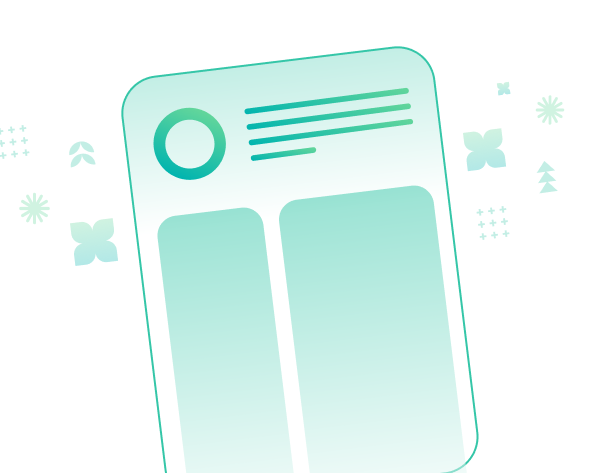
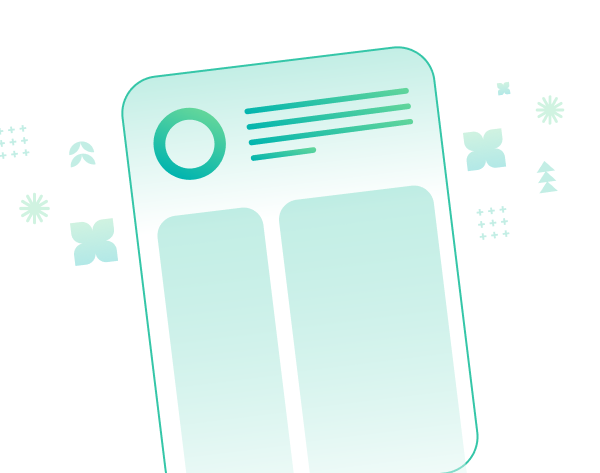
style: update faqs sections

Changed region(s): [[0.24, 0.3848, 0.75, 0.6216]]

diff --git a/resources/views/components/faqs.blade.php b/resources/views/components/faqs.blade.php
@@ -1,11 +1,11 @@
-<section class="max-w-6xl mx-auto p-10 sm:w-full sm:p-4">
+<section class="max-w-6xl mx-auto p-10 sm:w-full sm:p-4 mt-0 sm:mt-4">
     <div class="p-10 sm:p-2">
 
         <div class="space-y-2">
-            <h1 class="text-3xl font-bold text-center text-prim sm:text-2xl">Frequently <span
-                    class="text-acc">Asked</span> Questions</h1>
+            <h1 class="text-3xl font-bold text-center text-prim sm:text-xl">Frequently <span class="text-acc">Asked</span>
+                Questions</h1>
             <p class="text-gray-500 text-sm text-center sm:text-xs">Beberapa pertanyaan yang sering diajukan oleh
-                pengguna mengenai platform anaksehat</p>
+                pengguna mengenai platform Nutrizie</p>
         </div>
 
         <div class="mt-6">
@@ -17,7 +17,7 @@
                         class=" flex items-center justify-between w-full py-5 font-medium rtl:text-right text-gray-500 border-b border-gray-200 dark:border-gray-700 dark:text-gray-400 gap-3"
                         data-accordion-target="#accordion-flush-body-1" aria-expanded="true"
                         aria-controls="accordion-flush-body-1">
-                        <span class="text-sm">Apa itu Anaksehat ?</span>
+                        <span class="text-sm sm:text-xs">Apa itu Nutrizie ?</span>
                         <svg data-accordion-icon class="w-3 h-3 rotate-180 shrink-0" aria-hidden="true"
                             xmlns="http://www.w3.org/2000/svg" fill="none" viewBox="0 0 10 6">
                             <path stroke="currentColor" stroke-linecap="round" stroke-linejoin="round" stroke-width="2"
@@ -27,7 +27,8 @@
                 </h2>
                 <div id="accordion-flush-body-1" class="hidden" aria-labelledby="accordion-flush-heading-1">
                     <div class="py-5 border-b border-gray-200 dark:border-gray-700">
-                        <p class="mb-2 text-justify text-gray-500 text-sm dark:text-gray-400">anaksehat merupakan
+                        <p class="mb-2 text-justify text-gray-500 text-sm sm:text-xs dark:text-gray-400">Nutrizie
+                            merupakan
                             platform yang menyediakan informasi gizi balita, pola makan sehat, serta cara mengatasi
                             tantangan asupan untuk balita. Platform ini juga dilengkapi sistem Cek status gizi otomatis.
                         </p>
@@ -39,7 +40,7 @@
                         class=" flex items-center justify-between w-full py-5 font-medium rtl:text-right text-gray-500 border-b border-gray-200 dark:border-gray-700 dark:text-gray-400 gap-3"
                         data-accordion-target="#accordion-flush-body-2" aria-expanded="false"
                         aria-controls="accordion-flush-body-2">
-                        <span class="text-sm text-left">Apa tujuan utama dari website Anaksehat ?</span>
+                        <span class="text-sm sm:text-xs text-left">Apa tujuan utama dari website Nutrizie ?</span>
                         <svg data-accordion-icon class="w-3 h-3 rotate-180 shrink-0" aria-hidden="true"
                             xmlns="http://www.w3.org/2000/svg" fill="none" viewBox="0 0 10 6">
                             <path stroke="currentColor" stroke-linecap="round" stroke-linejoin="round" stroke-width="2"
@@ -49,8 +50,9 @@
                 </h2>
                 <div id="accordion-flush-body-2" class="hidden" aria-labelledby="accordion-flush-heading-2">
                     <div class="py-5 border-b border-gray-200 dark:border-gray-700">
-                        <p class="mb-2 text-justify text-gray-500 text-sm dark:text-gray-400">Tujuan utama website
-                            Anaksehat adalah memberikan informasi akurat dan terpercaya seputar gizi balita, serta
+                        <p class="mb-2 text-justify text-gray-500 text-sm sm:text-xs dark:text-gray-400">Tujuan utama
+                            website
+                            Nutrizie ialah untuk memberikan informasi akurat dan terpercaya seputar gizi balita, serta
                             memberikan edukasi mengenai makanan yang sehat dan seimbang untuk anak-anak di usia dini.
                             Kami juga berfokus pada penyuluhan tentang dampak kekurangan gizi dan cara-cara mencegahnya.
                         </p>
@@ -62,8 +64,9 @@
                         class=" flex items-center justify-between w-full py-5 font-medium rtl:text-right text-gray-500 border-b border-gray-200 dark:border-gray-700 dark:text-gray-400 gap-3"
                         data-accordion-target="#accordion-flush-body-3" aria-expanded="false"
                         aria-controls="accordion-flush-body-3">
-                        <span class="text-sm text-left">Bagaimana cara mendapatkan informasi gizi yang tepat untuk
-                            balita di Anaksehat ?</span>
+                        <span class="text-sm sm:text-xs text-left">Bagaimana cara mendapatkan informasi gizi yang tepat
+                            untuk
+                            balita di Nutrizie ?</span>
                         <svg data-accordion-icon class="w-3 h-3 rotate-180 shrink-0" aria-hidden="true"
                             xmlns="http://www.w3.org/2000/svg" fill="none" viewBox="0 0 10 6">
                             <path stroke="currentColor" stroke-linecap="round" stroke-linejoin="round" stroke-width="2"
@@ -73,7 +76,8 @@
                 </h2>
                 <div id="accordion-flush-body-3" class="hidden" aria-labelledby="accordion-flush-heading-3">
                     <div class="py-5 dark:border-gray-700">
-                        <p class="mb-2 text-justify text-gray-500 text-sm dark:text-gray-400">Anda dapat mengakses
+                        <p class="mb-2 text-justify text-gray-500 text-sm sm:text-xs dark:text-gray-400">Anda dapat
+                            mengakses
                             berbagai artikel, panduan, dan tips terkait gizi balita berdasarkan usia dan kebutuhan
                             spesifik. Kami menyediakan informasi yang mudah dipahami mengenai jenis makanan yang tepat,
                             jadwal makan yang ideal, serta tanda-tanda apabila anak mengalami kekurangan gizi. Anda juga